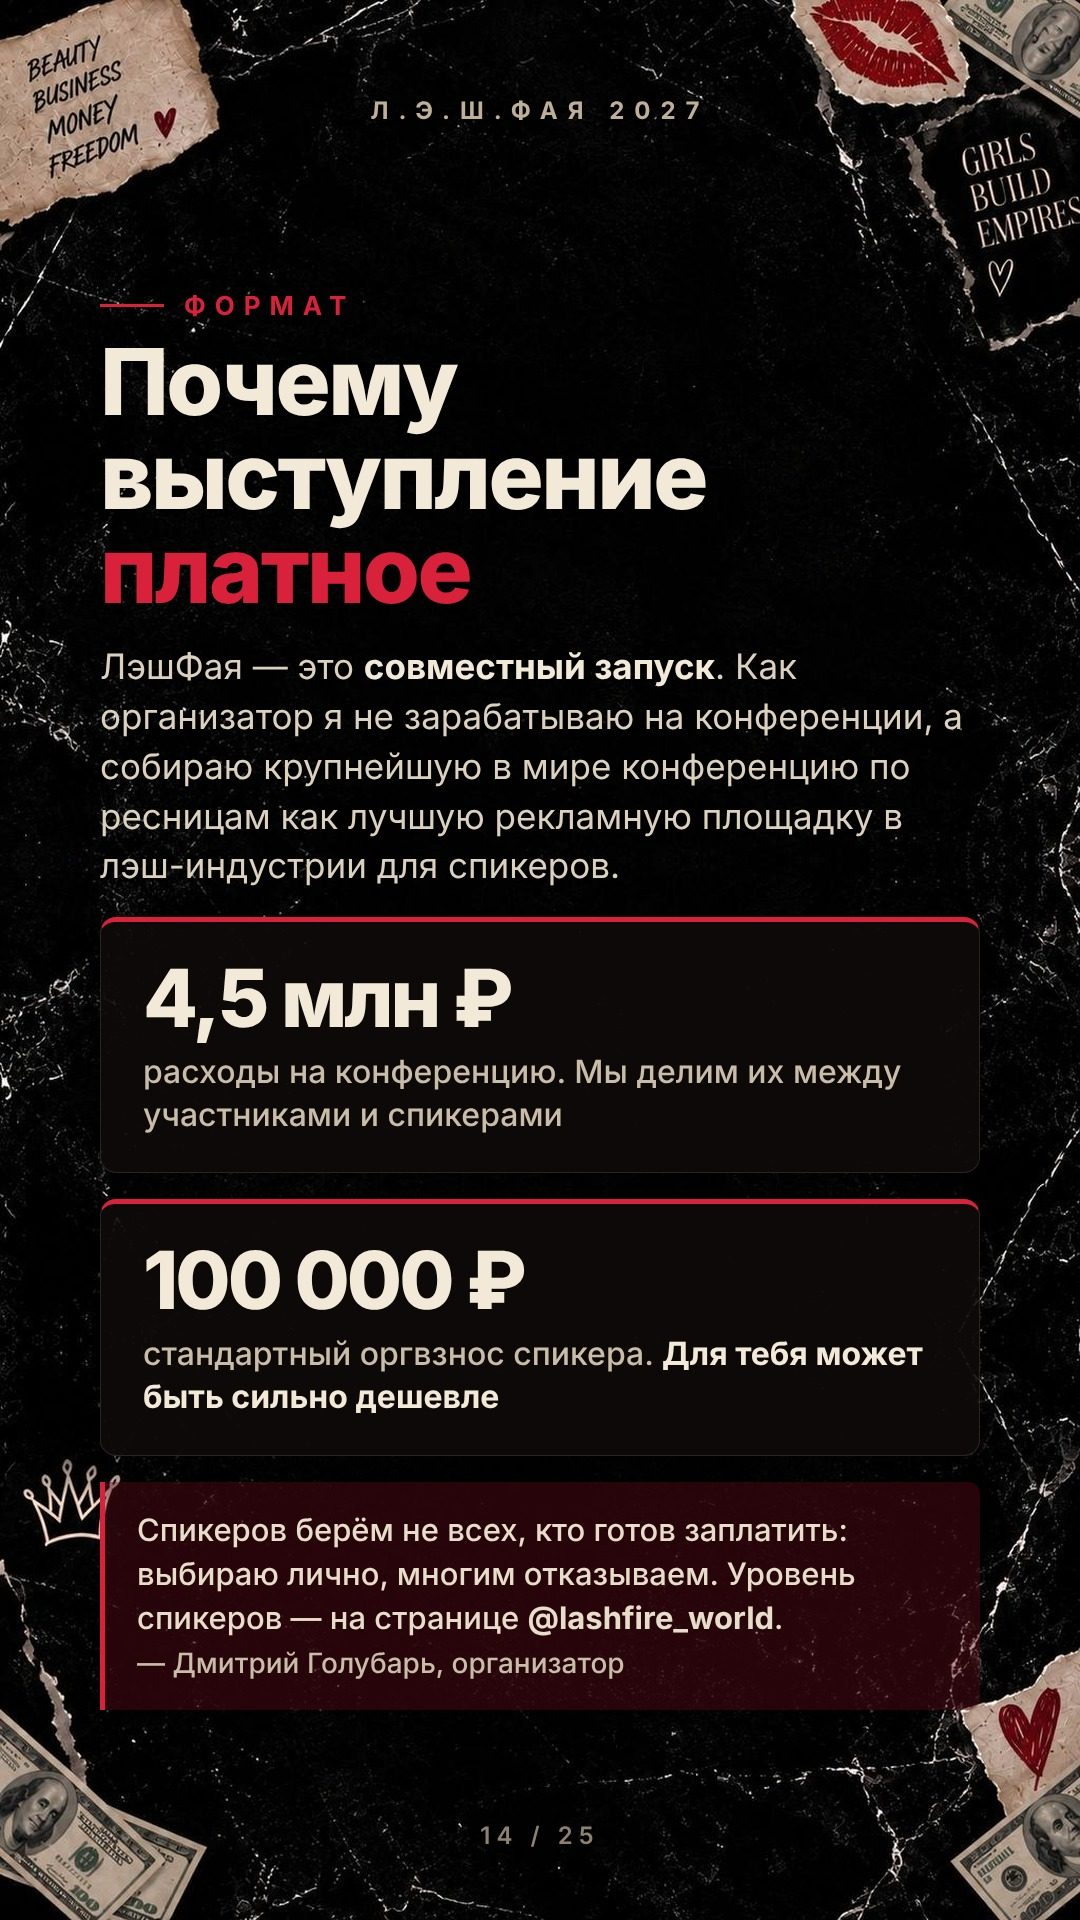
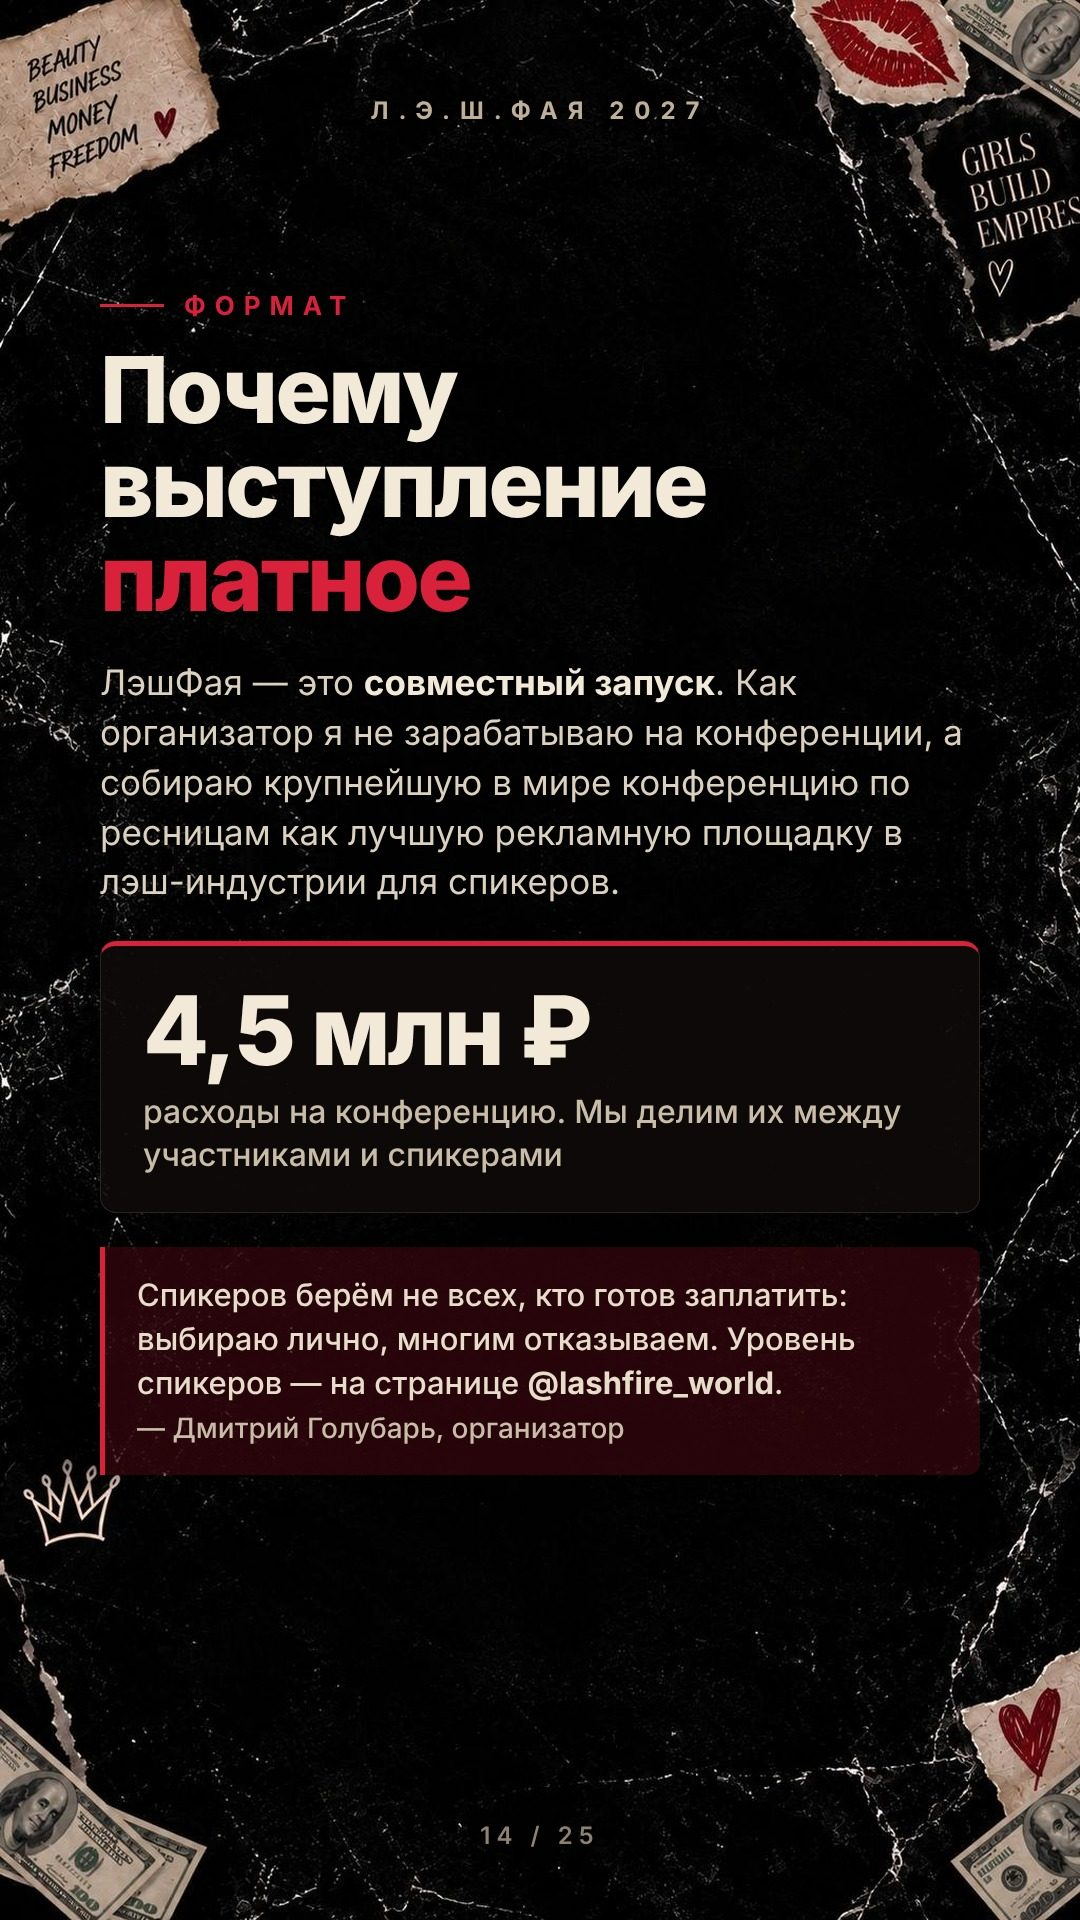
Убран стандартный оргвзнос 100 000 ₽
Claude-Session: https://claude.ai/code/session_01KxHKsqFZP9q9nJcN93KArK

Changed region(s): [[0.0917, 0.1562, 0.9167, 0.9062]]

diff --git a/index.html b/index.html
@@ -6,7 +6,7 @@
 <meta name="description" content="Стань новой звездой лэш-индустрии на крупнейшей в мире конференции по ресницам. ЛэшФая 2027, 14–15 января, Москва.">
 <meta property="og:title" content="ЛэшФая 2027 — предложение для спикеров">
 <meta property="og:description" content="Стань новой звездой лэш-индустрии. 14–15 января 2027, Москва.">
-<meta property="og:image" content="https://speaker-lash.vercel.app/og.jpg?v=1794306102">
+<meta property="og:image" content="https://speaker-lash.vercel.app/og.jpg?v=1794491127">
 <meta property="og:url" content="https://speaker-lash.vercel.app/">
 <meta property="og:type" content="website">
 <meta name="theme-color" content="#050404">
@@ -25,33 +25,33 @@ html{scroll-behavior:smooth}
 .ig{display:block;margin:0 16px 20px;padding:16px;border:1px solid rgba(243,233,216,.35);border-radius:14px;color:#F3E9D8;text-align:center;font:600 16px/1.2 -apple-system,Inter,Arial,sans-serif;text-decoration:none;background:#0e0a09}
 </style></head>
 <body><main>
-<a class="first" href="#s2"><img src="s/sp_01.jpg?v=1794306102" width="1080" height="1920" alt="Слайд 1"><span class="hint">Листайте вниз<i>↓</i></span></a>
-<span id="s2"></span><img src="s/sp_02.jpg?v=1794306102" width="1080" height="1920" alt="Слайд 2">
-<img src="s/sp_03.jpg?v=1794306102" width="1080" height="1920" alt="Слайд 3" loading="lazy">
-<img src="s/sp_04.jpg?v=1794306102" width="1080" height="1920" alt="Слайд 4" loading="lazy">
-<img src="s/sp_05.jpg?v=1794306102" width="1080" height="1920" alt="Слайд 5" loading="lazy">
+<a class="first" href="#s2"><img src="s/sp_01.jpg?v=1794491127" width="1080" height="1920" alt="Слайд 1"><span class="hint">Листайте вниз<i>↓</i></span></a>
+<span id="s2"></span><img src="s/sp_02.jpg?v=1794491127" width="1080" height="1920" alt="Слайд 2">
+<img src="s/sp_03.jpg?v=1794491127" width="1080" height="1920" alt="Слайд 3" loading="lazy">
+<img src="s/sp_04.jpg?v=1794491127" width="1080" height="1920" alt="Слайд 4" loading="lazy">
+<img src="s/sp_05.jpg?v=1794491127" width="1080" height="1920" alt="Слайд 5" loading="lazy">
 <a class="ig" href="https://www.instagram.com/lashfire_world/" target="_blank" rel="noopener">Открыть @lashfire_world в Instagram →</a>
-<img src="s/sp_06.jpg?v=1794306102" width="1080" height="1920" alt="Слайд 6" loading="lazy">
-<img src="s/sp_07.jpg?v=1794306102" width="1080" height="1920" alt="Слайд 7" loading="lazy">
-<img src="s/sp_08.jpg?v=1794306102" width="1080" height="1920" alt="Слайд 8" loading="lazy">
-<img src="s/sp_09.jpg?v=1794306102" width="1080" height="1920" alt="Слайд 9" loading="lazy">
-<img src="s/sp_10.jpg?v=1794306102" width="1080" height="1920" alt="Слайд 10" loading="lazy">
-<img src="s/sp_11.jpg?v=1794306102" width="1080" height="1920" alt="Слайд 11" loading="lazy">
-<img src="s/sp_12.jpg?v=1794306102" width="1080" height="1920" alt="Слайд 12" loading="lazy">
-<img src="s/sp_13.jpg?v=1794306102" width="1080" height="1920" alt="Слайд 13" loading="lazy">
-<img src="s/sp_14.jpg?v=1794306102" width="1080" height="1920" alt="Слайд 14" loading="lazy">
+<img src="s/sp_06.jpg?v=1794491127" width="1080" height="1920" alt="Слайд 6" loading="lazy">
+<img src="s/sp_07.jpg?v=1794491127" width="1080" height="1920" alt="Слайд 7" loading="lazy">
+<img src="s/sp_08.jpg?v=1794491127" width="1080" height="1920" alt="Слайд 8" loading="lazy">
+<img src="s/sp_09.jpg?v=1794491127" width="1080" height="1920" alt="Слайд 9" loading="lazy">
+<img src="s/sp_10.jpg?v=1794491127" width="1080" height="1920" alt="Слайд 10" loading="lazy">
+<img src="s/sp_11.jpg?v=1794491127" width="1080" height="1920" alt="Слайд 11" loading="lazy">
+<img src="s/sp_12.jpg?v=1794491127" width="1080" height="1920" alt="Слайд 12" loading="lazy">
+<img src="s/sp_13.jpg?v=1794491127" width="1080" height="1920" alt="Слайд 13" loading="lazy">
+<img src="s/sp_14.jpg?v=1794491127" width="1080" height="1920" alt="Слайд 14" loading="lazy">
 <a class="ig" href="https://www.instagram.com/lashfire_world/" target="_blank" rel="noopener">Открыть @lashfire_world в Instagram →</a>
-<img src="s/sp_15.jpg?v=1794306102" width="1080" height="1920" alt="Слайд 15" loading="lazy">
-<img src="s/sp_16.jpg?v=1794306102" width="1080" height="1920" alt="Слайд 16" loading="lazy">
-<img src="s/sp_17.jpg?v=1794306102" width="1080" height="1920" alt="Слайд 17" loading="lazy">
-<img src="s/sp_18.jpg?v=1794306102" width="1080" height="1920" alt="Слайд 18" loading="lazy">
-<img src="s/sp_19.jpg?v=1794306102" width="1080" height="1920" alt="Слайд 19" loading="lazy">
-<img src="s/sp_20.jpg?v=1794306102" width="1080" height="1920" alt="Слайд 20" loading="lazy">
-<img src="s/sp_21.jpg?v=1794306102" width="1080" height="1920" alt="Слайд 21" loading="lazy">
-<img src="s/sp_22.jpg?v=1794306102" width="1080" height="1920" alt="Слайд 22" loading="lazy">
-<img src="s/sp_23.jpg?v=1794306102" width="1080" height="1920" alt="Слайд 23" loading="lazy">
-<img src="s/sp_24.jpg?v=1794306102" width="1080" height="1920" alt="Слайд 24" loading="lazy">
-<img src="s/sp_25.jpg?v=1794306102" width="1080" height="1920" alt="Слайд 25" loading="lazy">
+<img src="s/sp_15.jpg?v=1794491127" width="1080" height="1920" alt="Слайд 15" loading="lazy">
+<img src="s/sp_16.jpg?v=1794491127" width="1080" height="1920" alt="Слайд 16" loading="lazy">
+<img src="s/sp_17.jpg?v=1794491127" width="1080" height="1920" alt="Слайд 17" loading="lazy">
+<img src="s/sp_18.jpg?v=1794491127" width="1080" height="1920" alt="Слайд 18" loading="lazy">
+<img src="s/sp_19.jpg?v=1794491127" width="1080" height="1920" alt="Слайд 19" loading="lazy">
+<img src="s/sp_20.jpg?v=1794491127" width="1080" height="1920" alt="Слайд 20" loading="lazy">
+<img src="s/sp_21.jpg?v=1794491127" width="1080" height="1920" alt="Слайд 21" loading="lazy">
+<img src="s/sp_22.jpg?v=1794491127" width="1080" height="1920" alt="Слайд 22" loading="lazy">
+<img src="s/sp_23.jpg?v=1794491127" width="1080" height="1920" alt="Слайд 23" loading="lazy">
+<img src="s/sp_24.jpg?v=1794491127" width="1080" height="1920" alt="Слайд 24" loading="lazy">
+<img src="s/sp_25.jpg?v=1794491127" width="1080" height="1920" alt="Слайд 25" loading="lazy">
 <a class="ig" style="margin-top:24px" href="https://www.instagram.com/lashfire_world/" target="_blank" rel="noopener">Страница конференции: @lashfire_world →</a>
 <a class="cta" style="margin-top:12px" href="tel:+79234444906">Позвонить Дмитрию: +7 923 444-49-06</a>
 </main></body></html>
